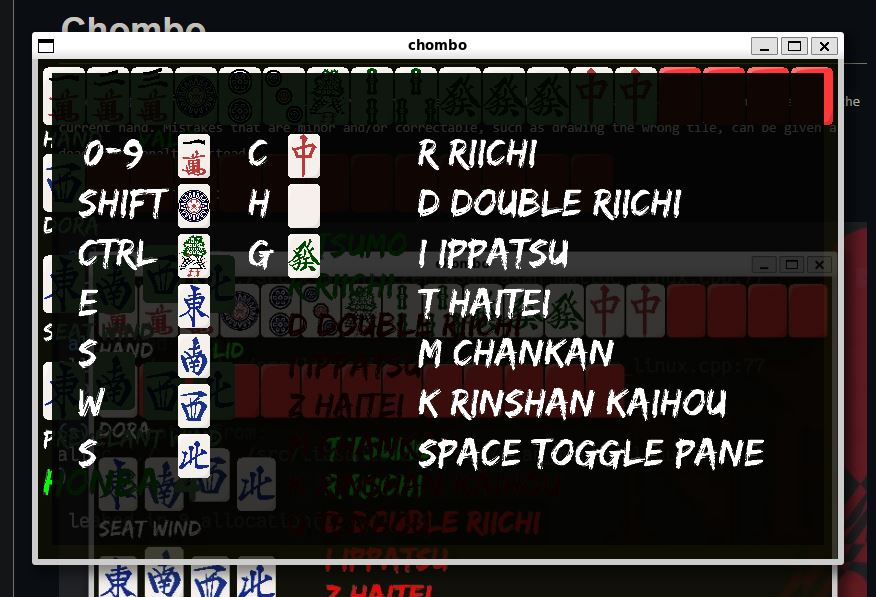
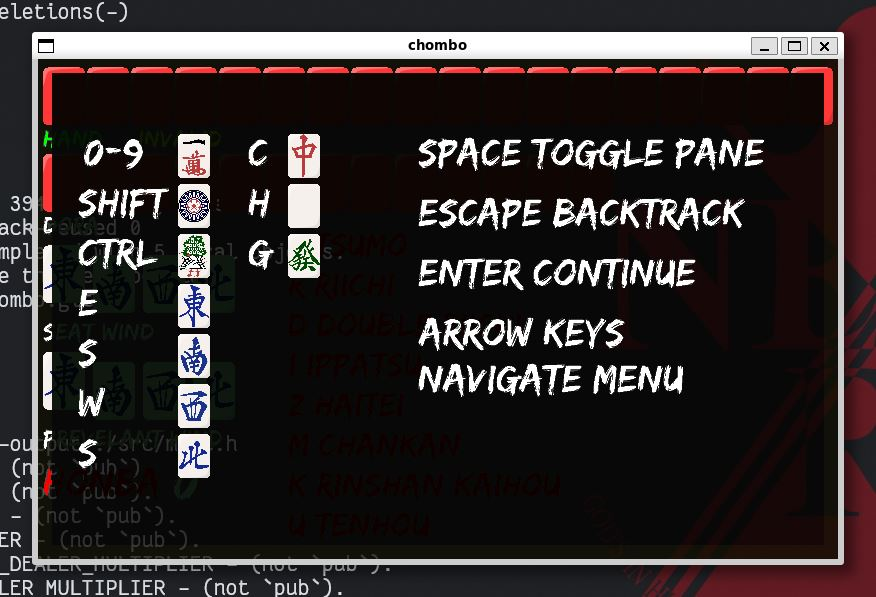
feat: adjust help menu

diff --git a/src/l_letter.c b/src/l_letter.c
@@ -33,16 +33,13 @@ L_Text_Obj L_TEXTS_OBJS[L_TEXT_COUNT] = {
 	{ "C", 80, L_COLOR_WHITE, 0, TTF_HORIZONTAL_ALIGN_CENTER },
 	{ "H", 80, L_COLOR_WHITE, 0, TTF_HORIZONTAL_ALIGN_CENTER },
 	{ "G", 80, L_COLOR_WHITE, 0, TTF_HORIZONTAL_ALIGN_CENTER },
-	{ "r riichi", 80, L_COLOR_WHITE, 0, TTF_HORIZONTAL_ALIGN_CENTER },
-	{ "d double riichi", 80, L_COLOR_WHITE, 0,
-	  TTF_HORIZONTAL_ALIGN_CENTER },
-	{ "i ippatsu", 80, L_COLOR_WHITE, 0, TTF_HORIZONTAL_ALIGN_CENTER },
-	{ "t haitei", 80, L_COLOR_WHITE, 0, TTF_HORIZONTAL_ALIGN_CENTER },
-	{ "m chankan", 80, L_COLOR_WHITE, 0, TTF_HORIZONTAL_ALIGN_CENTER },
-	{ "k rinshan kaihou", 80, L_COLOR_WHITE, 0,
-	  TTF_HORIZONTAL_ALIGN_CENTER },
+	{ "arrow keys\nnavigate menu", 80, L_COLOR_WHITE, 0,
+	  TTF_HORIZONTAL_ALIGN_LEFT },
 	{ "space toggle pane", 80, L_COLOR_WHITE, 0,
 	  TTF_HORIZONTAL_ALIGN_CENTER },
+	{ "escape backtrack", 80, L_COLOR_WHITE, 0,
+	  TTF_HORIZONTAL_ALIGN_CENTER },
+	{ "enter continue", 80, L_COLOR_WHITE, 0, TTF_HORIZONTAL_ALIGN_CENTER },
 
 	{ "Hand", 50, L_COLOR_GREEN, 0, TTF_HORIZONTAL_ALIGN_CENTER },
 	{ "Hand", 50, L_COLOR_WHITE, 0, TTF_HORIZONTAL_ALIGN_CENTER },
@@ -97,10 +94,10 @@ void L_init(SDL_Renderer *sdl_renderer)
 	TTF_Init();
 	font = TTF_OpenFont(FONT_EDOSZ_TTF, 100);
 	text_engine = TTF_CreateSurfaceTextEngine();
-	TTF_SetFontWrapAlignment(font, TTF_HORIZONTAL_ALIGN_CENTER);
 
 	for (int i = 0; i < L_TEXT_COUNT; i++) {
 		TTF_SetFontSize(font, L_TEXTS_OBJS[i].point_size);
+		TTF_SetFontWrapAlignment(font, L_TEXTS_OBJS[i].align);
 		TTF_Text *ttf_text = TTF_CreateText(text_engine, font,
 						    L_TEXTS_OBJS[i].text, 0);
 		if (!ttf_text) {

diff --git a/src/r_renderer.c b/src/r_renderer.c
@@ -156,21 +156,17 @@ bool R_help_draw(struct G_GameState gamestate)
 			(struct SDL_Point){ 500, 350 }, 16) != 0)
 		return true;
 
-	if (L_draw_text(L_TEXT_HELP_RIICHI, (struct SDL_Point){ 760, 140 }))
-		return true;
-	if (L_draw_text(L_TEXT_HELP_DOUBLE_RIICHI,
-			(struct SDL_Point){ 760, 240 }))
-		return true;
-	if (L_draw_text(L_TEXT_HELP_IPPATSU, (struct SDL_Point){ 760, 340 }))
-		return true;
-	if (L_draw_text(L_TEXT_HELP_HAITEI, (struct SDL_Point){ 760, 440 }))
-		return true;
-	if (L_draw_text(L_TEXT_HELP_CHANKAN, (struct SDL_Point){ 760, 540 }))
-		return true;
-	if (L_draw_text(L_TEXT_HELP_RINSHAN, (struct SDL_Point){ 760, 640 }))
-		return true;
 	if (L_draw_text(L_TEXT_HELP_SPACE_TOGGLE,
-			(struct SDL_Point){ 760, 740 }))
+			(struct SDL_Point){ 760, 140 }))
+		return true;
+	if (L_draw_text(L_TEXT_HELP_ESCAPE_BACKTRACK,
+			(struct SDL_Point){ 760, 260 }))
+		return true;
+	if (L_draw_text(L_TEXT_HELP_RETURN_CONTINUE,
+			(struct SDL_Point){ 760, 380 }))
+		return true;
+	if (L_draw_text(L_TEXT_HELP_ARROW_NAVIGATE,
+			(struct SDL_Point){ 760, 500 }))
 		return true;
 
 	return false;

diff --git a/src/l_letter.h b/src/l_letter.h
@@ -38,13 +38,10 @@ typedef enum {
 	L_TEXT_HELP_C,
 	L_TEXT_HELP_H,
 	L_TEXT_HELP_G,
-	L_TEXT_HELP_RIICHI,
-	L_TEXT_HELP_DOUBLE_RIICHI,
-	L_TEXT_HELP_IPPATSU,
-	L_TEXT_HELP_HAITEI,
-	L_TEXT_HELP_CHANKAN,
-	L_TEXT_HELP_RINSHAN,
+	L_TEXT_HELP_ARROW_NAVIGATE,
 	L_TEXT_HELP_SPACE_TOGGLE,
+	L_TEXT_HELP_ESCAPE_BACKTRACK,
+	L_TEXT_HELP_RETURN_CONTINUE,
 
 	L_TEXT_HAND_LABEL_SELECTED,
 	L_TEXT_HAND_LABEL,
